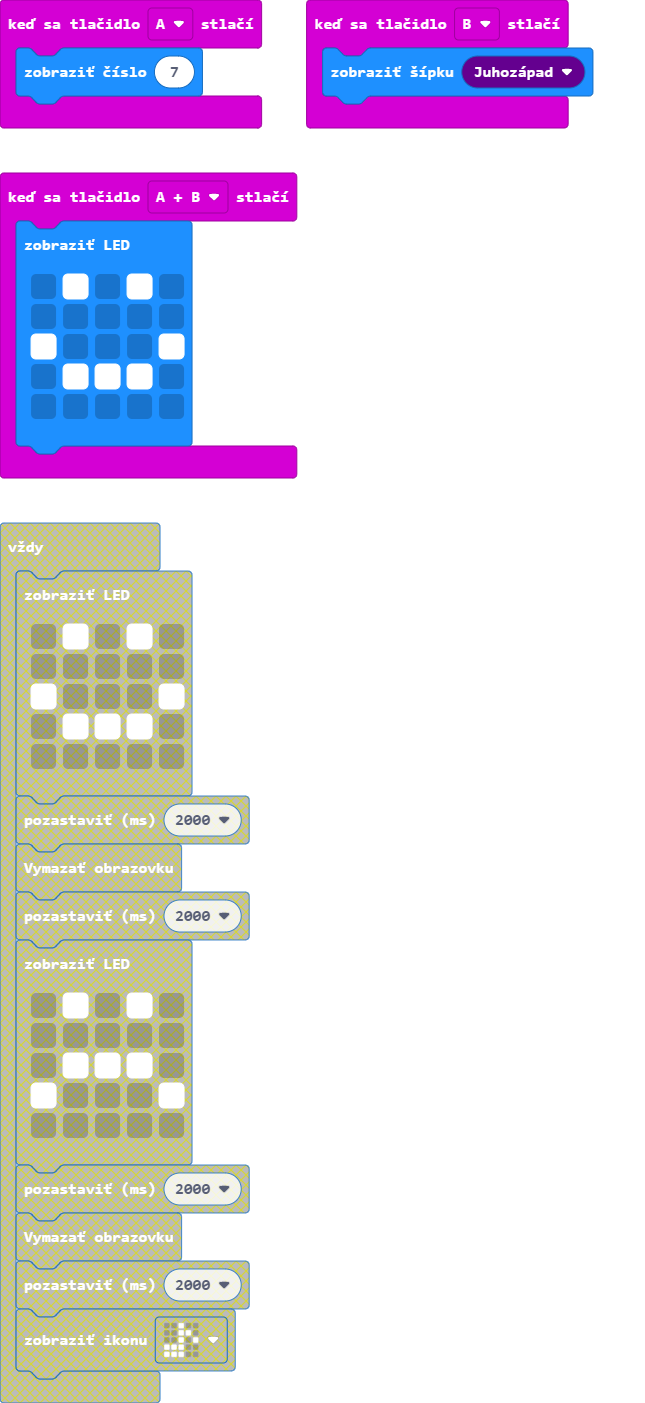
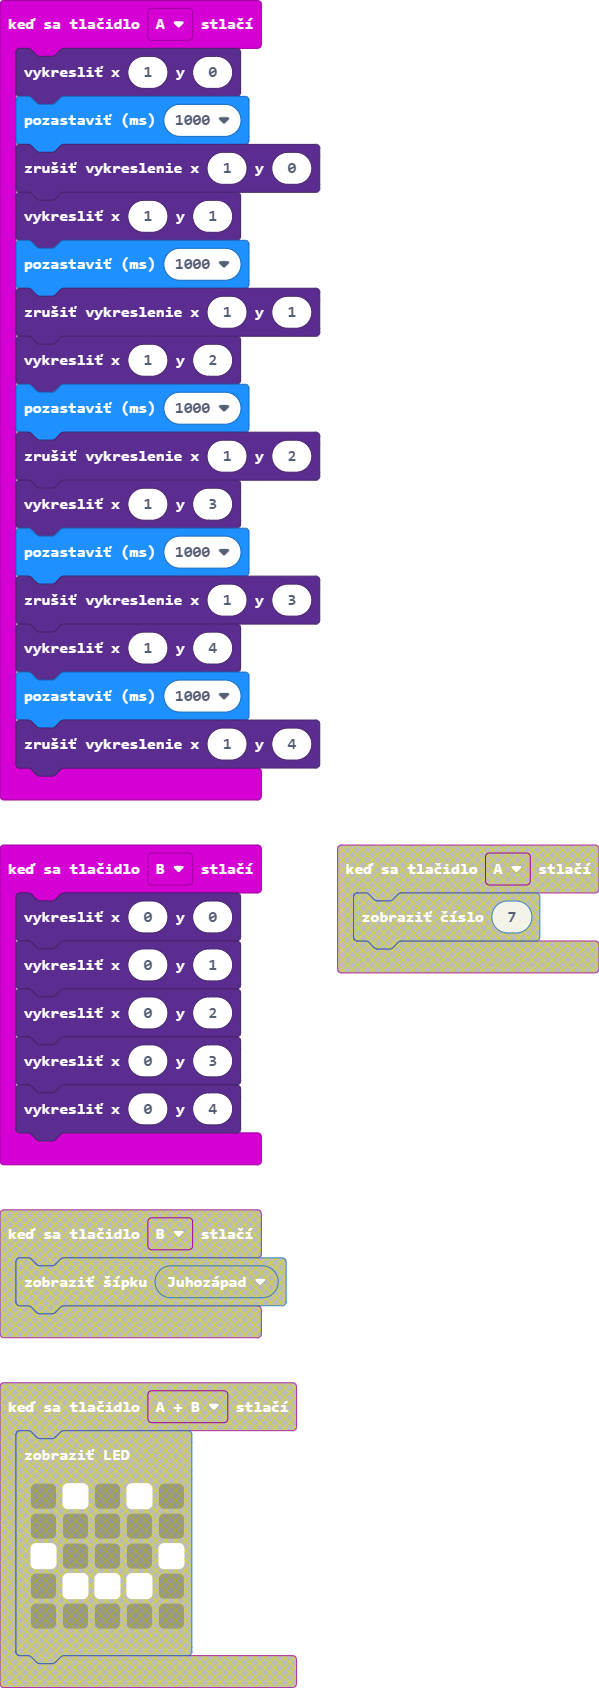
Aktualizovať main.blocks, main.ts

diff --git a/main.ts b/main.ts
@@ -1,17 +1,26 @@
 input.onButtonPressed(Button.A, function () {
-    basic.showNumber(7)
-})
-input.onButtonPressed(Button.AB, function () {
-    basic.showLeds(`
-        . # . # .
-        . . . . .
-        # . . . #
-        . # # # .
-        . . . . .
-        `)
+    led.plot(1, 0)
+    basic.pause(1000)
+    led.unplot(1, 0)
+    led.plot(1, 1)
+    basic.pause(1000)
+    led.unplot(1, 1)
+    led.plot(1, 2)
+    basic.pause(1000)
+    led.unplot(1, 2)
+    led.plot(1, 3)
+    basic.pause(1000)
+    led.unplot(1, 3)
+    led.plot(1, 4)
+    basic.pause(1000)
+    led.unplot(1, 4)
 })
 input.onButtonPressed(Button.B, function () {
-    basic.showArrow(ArrowNames.SouthWest)
+    led.plot(0, 0)
+    led.plot(0, 1)
+    led.plot(0, 2)
+    led.plot(0, 3)
+    led.plot(0, 4)
 })
 basic.showNumber(69)
 basic.showString("hh")
